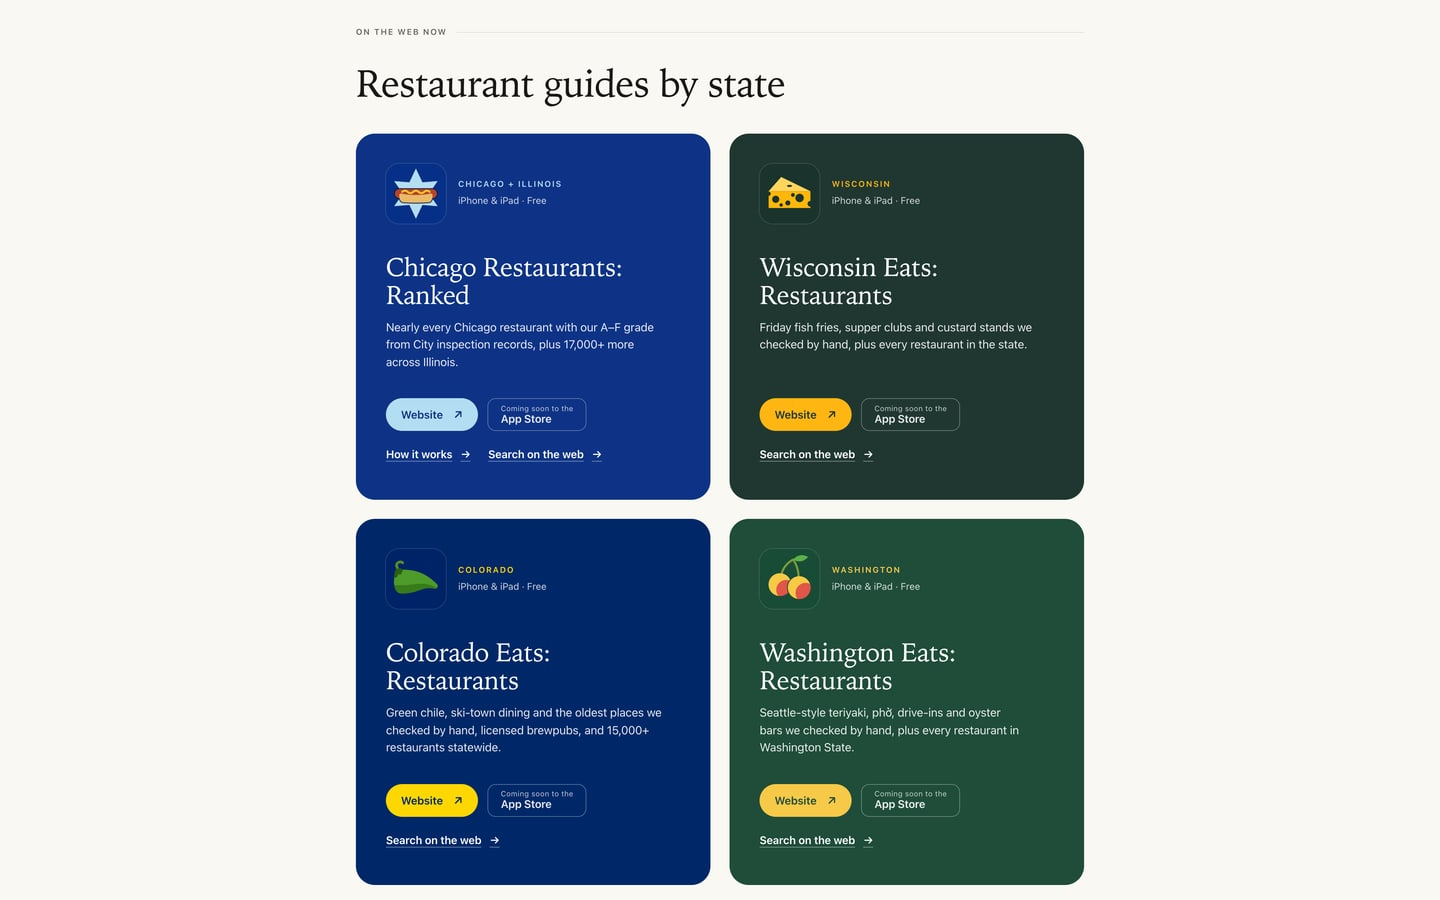
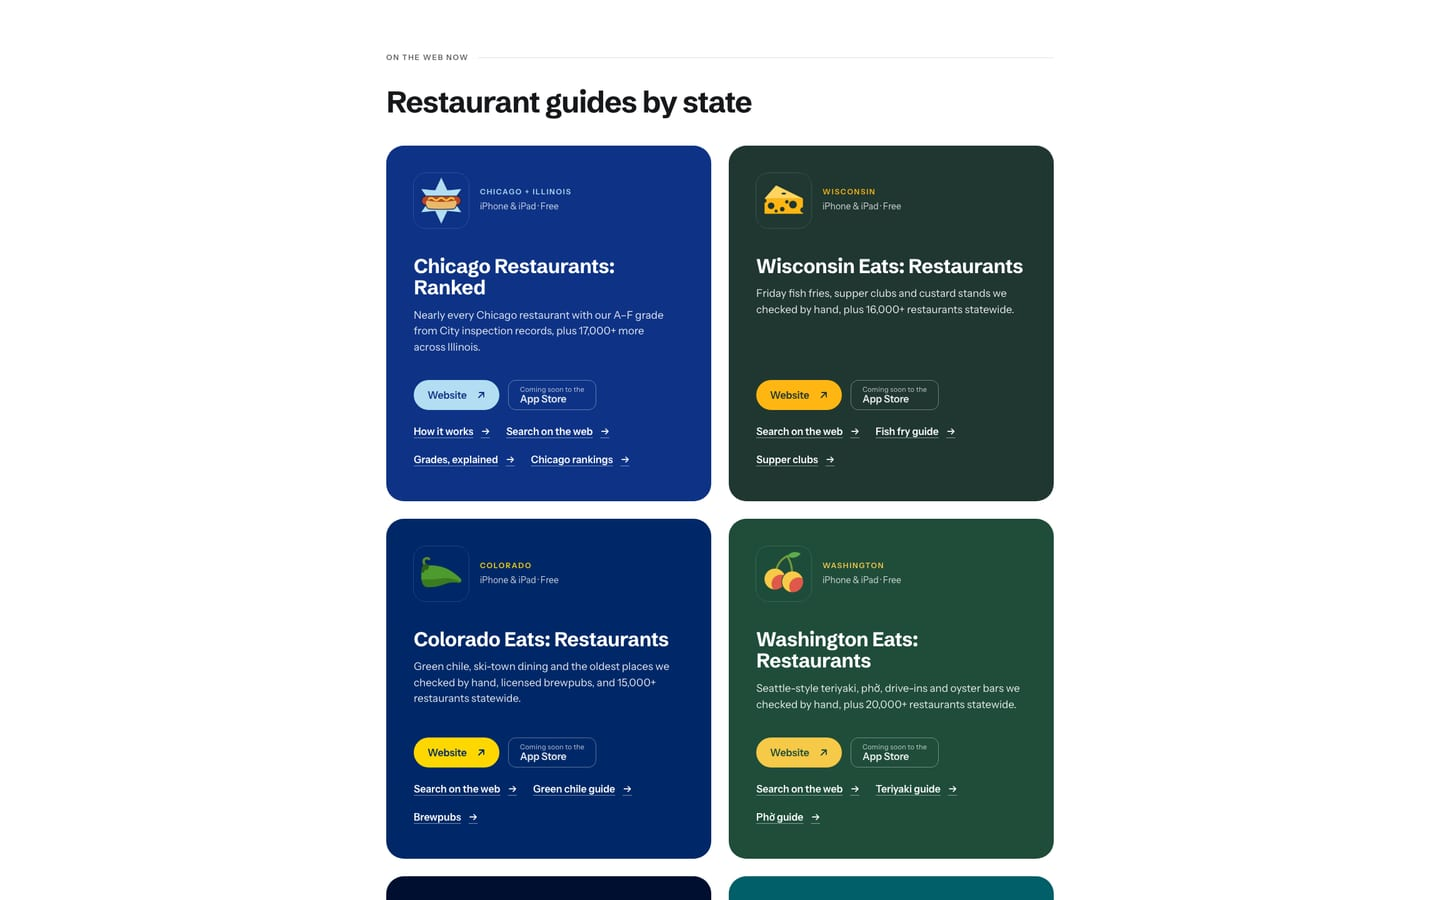
Eats Ranked: fresh eatsranked.com screenshots, twelve states live (#99)
eatsranked.com was redesigned (hex-tile map, new type) and now lists twelve
live states: Maine, Idaho, New York, Hawaii and Texas joined the original seven.

- New screenshots of the hub's map and its app cards, same framing and sizes
  as before, metadata stripped
- "Seven states" copy updated to twelve on the home card, the AI Projects
  tile, story, status line and steps

Changed region(s): [[0.2188, 0.0311, 0.7812, 1.0]]

diff --git a/src/data/showcase.ts b/src/data/showcase.ts
@@ -121,7 +121,7 @@ export const projects: Project[] = [
     id: 'eatsranked',
     name: 'Eats Ranked',
     kicker: 'iPhone apps + web · restaurant guides',
-    tileBlurb: 'Restaurants, ranked state by state. Seven states live on the web.',
+    tileBlurb: 'Restaurants, ranked state by state. Twelve states live on the web.',
     bg: surface,
     fg: '#ba3441',
     bgDark: surfaceDark,
@@ -129,7 +129,7 @@ export const projects: Project[] = [
     tone: 'light',
     hero: {
       title: 'Where to eat, from the public record.',
-      sub: 'Eats Ranked is a family of free restaurant guides, one per state, built from public records, open map data and cited public sources. Each state gets its own iPhone and iPad app, a website and a web version, with local favorites checked one place at a time, from Wisconsin fish fries to New Haven apizza. Seven states are live on the web, and the first app, Wisconsin Eats, has been submitted to Apple.',
+      sub: 'Eats Ranked is a family of free restaurant guides, one per state, built from public records, open map data and cited public sources. Each state gets its own iPhone and iPad app, a website and a web version, with local favorites checked one place at a time, from Wisconsin fish fries to New Haven apizza. Twelve states are live on the web, and the first app, Wisconsin Eats, has been submitted to Apple.',
       screen: 'image',
       image: '/showcase/eatsranked-guides.jpg',
       frame: 'laptop',
@@ -155,13 +155,13 @@ export const projects: Project[] = [
         body: 'From Wisconsin on, every app has guides to its state’s food traditions: fish fries and supper clubs in Wisconsin, green chile in Colorado, Seattle teriyaki in Washington, New Haven apizza in Connecticut, stone crabs and Cuban sandwiches in Florida, taquerías and dim sum in California. Research agents checked each place against a 2025–26 source, such as its own site or menu or a dated news story, and the guides list only places checked open. Wisconsin’s alone has 402 Friday fish fries and 211 supper clubs. The apps store no customer reviews or star ratings; ratings, hours and photos open in Apple Maps’ own place card.',
         screen: 'image',
         image: '/showcase/eatsranked-washington-teriyaki.jpg',
-        alt: 'Washington Eats on iPhone, one of the seven apps: the Seattle Teriyaki guide, hand-checked teriyaki counters statewide with what each one serves, 179 places sorted nearest first',
+        alt: 'Washington Eats on iPhone, one of the state apps: the Seattle Teriyaki guide, hand-checked teriyaki counters statewide with what each one serves, 179 places sorted nearest first',
         flip: true,
       },
       {
         eyebrow: 'One state at a time',
         title: 'Five more states live in four days.',
-        body: 'Chicago and Wisconsin came first, in late September. Between October 5 and 8, Colorado, Washington, Connecticut, Florida and California went live on the web, each built from one shared playbook and fitted to what its state, counties and cities publish, with its own name, icon, palette and guides. What one state’s QA round catches goes into the playbook for the next.',
+        body: 'Chicago and Wisconsin came first, in late September. Between October 5 and 8, Colorado, Washington, Connecticut, Florida and California went live on the web, each built from one shared playbook and fitted to what its state, counties and cities publish, with its own name, icon, palette and guides. What one state’s QA round catches goes into the playbook for the next. Maine, Idaho, New York, Hawaii and Texas have followed since, for twelve states on the web.',
         screen: 'image',
         image: '/showcase/eatsranked-connecticut-site.jpg',
         alt: 'The Connecticut Eats website, one of the five: its own navy and tomato-red palette, its apizza icon, links to its Apizza, Lobster rolls, Hot dogs and Diners guides, and counts of 27 apizza places, 58 lobster roll and clam shack stops, 45 diners and dairy bars and 9,358 restaurants statewide',
@@ -170,7 +170,7 @@ export const projects: Project[] = [
       {
         eyebrow: 'Kept current',
         title: 'Chicago’s new records, checked before they ship.',
-        body: 'Of the seven apps, the Chicago app is the one that refreshes its data every week, because the City keeps adding inspection results. A Python pipeline scheduled for every Monday refetches the City’s records and publishes only if every check passes: Chicago counts within 5% of the data already published, no more than 10% of grades changed, and a spot check of changed grades against the City’s own data. The app downloads the new data without an app update, and the web version reads the same files.',
+        body: 'Of all the apps, the Chicago app is the one that refreshes its data every week, because the City keeps adding inspection results. A Python pipeline scheduled for every Monday refetches the City’s records and publishes only if every check passes: Chicago counts within 5% of the data already published, no more than 10% of grades changed, and a spot check of changed grades against the City’s own data. The app downloads the new data without an app update, and the web version reads the same files.',
         screen: 'image',
         image: '/showcase/eatsranked-chicago-map.jpg',
         alt: 'Chicago Restaurants: Ranked map of the North Side with restaurant pins colored by the app’s own A–F grade',
@@ -186,13 +186,13 @@ export const projects: Project[] = [
     steps: [
       { title: 'Start with one city', ai: 'Turned Chicago’s inspection records into a score and an A–F grade, built the iPhone app and wrote an App Review and legal-risk audit before launch.', me: 'Set the app’s rules: no Google data, no customer reviews or star ratings, no Yelp.' },
       { title: 'Then a second state', ai: 'Built Wisconsin Eats from the Chicago app’s structure, with research agents checking each fish fry and supper club against a 2025–26 source.', me: 'Decided the name should cover restaurants in general, with fish fry and supper clubs as the tagline, and chose one domain with a site per state instead of buying wisconsineats.com.' },
-      { title: 'A hub and five more', ai: 'Built eatsranked.com from one data file, then Colorado, Washington, Connecticut, Florida and California, each fitted to whatever inspection data its state or local health agencies publish.', me: 'Chose each state’s icon (a Pueblo green chile, not a peach) and made the licensing calls.' },
+      { title: 'A hub and ten more', ai: 'Built eatsranked.com from one data file, then Colorado, Washington, Connecticut, Florida and California, and later Maine, Idaho, New York, Hawaii and Texas, each fitted to whatever inspection data its state or local health agencies publish.', me: 'Chose each state’s icon (a Pueblo green chile, not a peach) and made the licensing calls.' },
       { title: 'Ship and keep it current', ai: 'Set up the weekly Chicago data refresh with its checks, and wrote the App Store listings and review replies.', me: 'Submitted the first app, Wisconsin Eats, for App Review on September 28; Apple asked for more information. None of the apps is on the App Store yet.' },
     ],
     links: [
       { label: 'Visit eatsranked.com', href: 'https://eatsranked.com', primary: true },
     ],
-    status: 'Live on the web in seven states · iPhone and iPad apps coming soon',
+    status: 'Live on the web in twelve states · iPhone and iPad apps coming soon',
   },
   {
     id: 'goodwalk',
